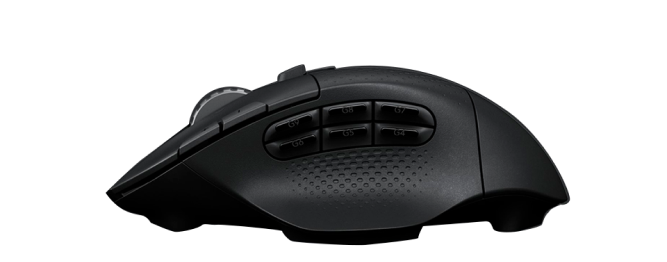
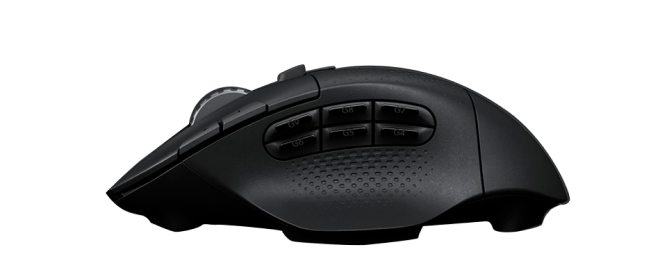
dots on sec 1 fixed

diff --git a/src/styles/_global.scss b/src/styles/_global.scss
@@ -143,29 +143,28 @@ a {
     }
 }
 
-.img-details__circle {
+.img-btn {
     width: 30px;
     height: 30px;
+    background-color: inherit;
     border: 1px solid rgba(#FFFFFF, 0.5);
     box-sizing: border-box;
     border-radius: 50%;
-    display: flex;
-    align-items: center;
 
     &:hover {
         cursor: pointer;
     }
 
-    .img-details__point {
+    &__point {
         width: 14px;
         height: 14px;
         background: #18E3FF;
         box-shadow: 0 0 10px #18E3FF;
         border-radius: 50%;
-        margin: 0 auto;
+        margin: 7px auto;
+        z-index: 20;
     }
 }
-
 
 .home {
     position: relative;
@@ -214,7 +213,9 @@ a {
                 position: absolute;
                 right: 0;
                 transform: translate(50%, 172%);
-                padding: 0 10px
+                padding: 0 10px;
+                min-height: 46px;
+                min-width: 28px;
             }
         }
     }
@@ -232,18 +233,18 @@ a {
 
     &__text {
         max-width: 575px;
-        flex: 1 1 45%;        
+        flex: 1 1 45%;
 
         h1 {
             font-weight: bold;
-            font-size: 72px;            
+            font-size: 72px;
             padding-bottom: 30px;
             line-height: 1.3;
         }
 
         h3 {
             font-weight: bold;
-            font-size: 18px;            
+            font-size: 18px;
             text-transform: uppercase;
             padding-bottom: 12px;
         }
@@ -260,41 +261,31 @@ a {
         justify-content: flex-end;
         flex: 1 1 45%;
         padding: 90px 0 0;
-                
+
         .img-1 {
             margin-right: 40px;
             position: relative;
-            bottom: 0;
-            left: 0;
 
-            .home-img__wrap {
+            .img-btn {
                 position: absolute;
-                bottom: 92%;
-                left: 68%;
+                top: 82%;
+                right: 95%;
+            }
 
-                .img-details {
-                    width: 250px;
-                    height: 130px;
-                    position: relative;
+            .img__descr {
+                position: absolute;
+                bottom: 100%;
+                width: 250px;
+                height: 130px;
+                bottom: 93%;
+                left: 72%;
 
-                    &__descr {
-                        font-size: 16px;
-                        position: absolute;
-                        bottom: 108px;
-                        left: 86px;
-                    }
-
-                    &__line {
-                        position: absolute;
-                        bottom: 12px;
-                        left: 11px;
-                    }
-
-                    &__circle {
-                        position: absolute;
-                        bottom: 0;
-                        left: 0;
-                    }
+                .img__descr-text {
+                    color: $primary;
+                    font-size: 16px;
+                    line-height: 20px;
+                    padding: 0 0 5px 60px;
+                    text-align: center;
                 }
             }
         }
@@ -302,37 +293,26 @@ a {
         .img-2 {
             align-self: center;
             position: relative;
-            bottom: 0;
-            left: 0;
 
-            .home-img__wrap {
+            .img-btn {
                 position: absolute;
-                bottom: 97%;
-                right: 37%;
+                top: 85%;
+                left: 78%;
+            }
 
-                .img-details {
-                    width: 280px;
-                    height: 40px;
-                    position: relative;
+            .img__descr {
+                position: absolute;
+                bottom: 100%;
+                width: 270px;
+                bottom: 98%;
+                right: 36%;
 
-                    &__descr {
-                        font-size: 16px;
-                        position: absolute;
-                        bottom: 73px;
-                        left: 0;
-                    }
-
-                    &__line {
-                        position: absolute;
-                        bottom: 0;
-                        left: 0;
-                    }
-
-                    &__circle {
-                        position: absolute;
-                        top: 20px;
-                        right: 44px;
-                    }
+                .img__descr-text {
+                    color: $primary;
+                    font-size: 16px;
+                    line-height: 20px;
+                    padding: 0 0 5px 0px;
+                    text-align: center;
                 }
             }
         }
@@ -472,7 +452,7 @@ a {
 
 .product {
     background: linear-gradient(180deg, #303134 0%, #1F2023 100%);
-    position: relative;    
+    position: relative;
 
     .product__scroll {
         position: absolute;
@@ -482,7 +462,7 @@ a {
         left: 50%;
         transform: translateX(-100%);
 
-        .product__scroll-wrap{
+        .product__scroll-wrap {
             position: relative;
             width: 100%;
             height: 100%;
@@ -493,18 +473,18 @@ a {
                 bottom: 22px;
                 left: calc(50% - 2px/2);
                 width: 2px;
-                background-color: $secondary; 
+                background-color: $secondary;
             }
 
             .circle {
-                position: absolute;                
+                position: absolute;
             }
 
-            .product__scroll-circle-1 {                
+            .product__scroll-circle-1 {
                 top: 0;
             }
 
-            .product__scroll-circle-2 { 
+            .product__scroll-circle-2 {
                 top: 38%;
             }
 
@@ -512,7 +492,7 @@ a {
                 bottom: 29%;
             }
 
-            .product__scroll-circle-4 {                
+            .product__scroll-circle-4 {
                 bottom: 0;
             }
         }
@@ -554,8 +534,13 @@ a {
         padding: 54px 0 0;
     }
 
+    &__img {
+        max-width: 60%;
+    }
+
     &__text {
         max-width: 644px;
+        flex: 1 1 35%;
 
         h3 {
             font-weight: bold;

diff --git a/src/index.html b/src/index.html
@@ -12,7 +12,7 @@
     <header class="header" id="header">
         <div class="header__container">
             <a href="#home" class="header__logo"><img src="images/logo.png" alt="brand"></a>
-            <nav class="nav">                
+            <nav class="nav">
                 <a href="#about" class="nav__nav-link">About</a>
                 <a href="#product" class="nav__nav-link">Product</a>
                 <a href="#specifications" class="nav__nav-link">Specification</a>
@@ -79,31 +79,23 @@
                 <div class="home__pictures">
                     <div class="home-img img-1">
                         <img src="images/sec1_img1.png" alt="mouse-original">
-                        <div class="home-img__wrap">
-                            <div class="img-details">
-                                <div class="img-details__inner">
-                                    <div class="img-details__descr">Hero 16K sensor</div>
-                                    <img class="img-details__line" src="images/s1-line_1.svg" alt="line">
-                                </div>
-                                <div class="img-details__circle">
-                                    <div class="img-details__point active"></div>
-                                </div>
+                        <div class="img__descr">
+                            <div class="img-btn">
+                                <div class="img-btn__point"></div>
                             </div>
+                            <div class="img__descr-text">Hero 16K sensor</div>
+                            <img class="img__descr-line" src="images/s1-line_1.svg" alt="line">
                         </div>
                     </div>
-
                     <div class="home-img img-2">
                         <img src="images/sec1_img2.png" alt="mouse-grenade">
-                        <div class="home-img__wrap">
-                            <div class="img-details">
-                                <div class="img-details__inner">
-                                    <div class="img-details__descr">Dual mode hyperfast scroll wheel</div>
-                                    <img class="img-details__line" src="images/s1-line_2.svg" alt="line">
-                                </div>
-                                <div class="img-details__circle">
-                                    <div class="img-details__point"></div>
-                                </div>
+
+                        <div class="img__descr">
+                            <div class="img-btn">
+                                <div class="img-btn__point"></div>
                             </div>
+                            <div class="img__descr-text">Dual mode hyperfast scroll wheel</div>
+                            <img class="img__descr-line" src="images/s1-line_2.svg" alt="line">
                         </div>
                     </div>
                 </div>
@@ -176,7 +168,7 @@
             <div class="product__container">
                 <h2>Product</h2>
                 <div class="product__row row-1">
-                    <img class="img-1" src="images/sec3_img1r.png" alt="mouse-simple">
+                    <img src="images/sec3_img1r.png" alt="mouse-simple" class="product__img">
                     <div class="product__text">
                         <h3>15 Programmable controls</h3>
                         <p>
